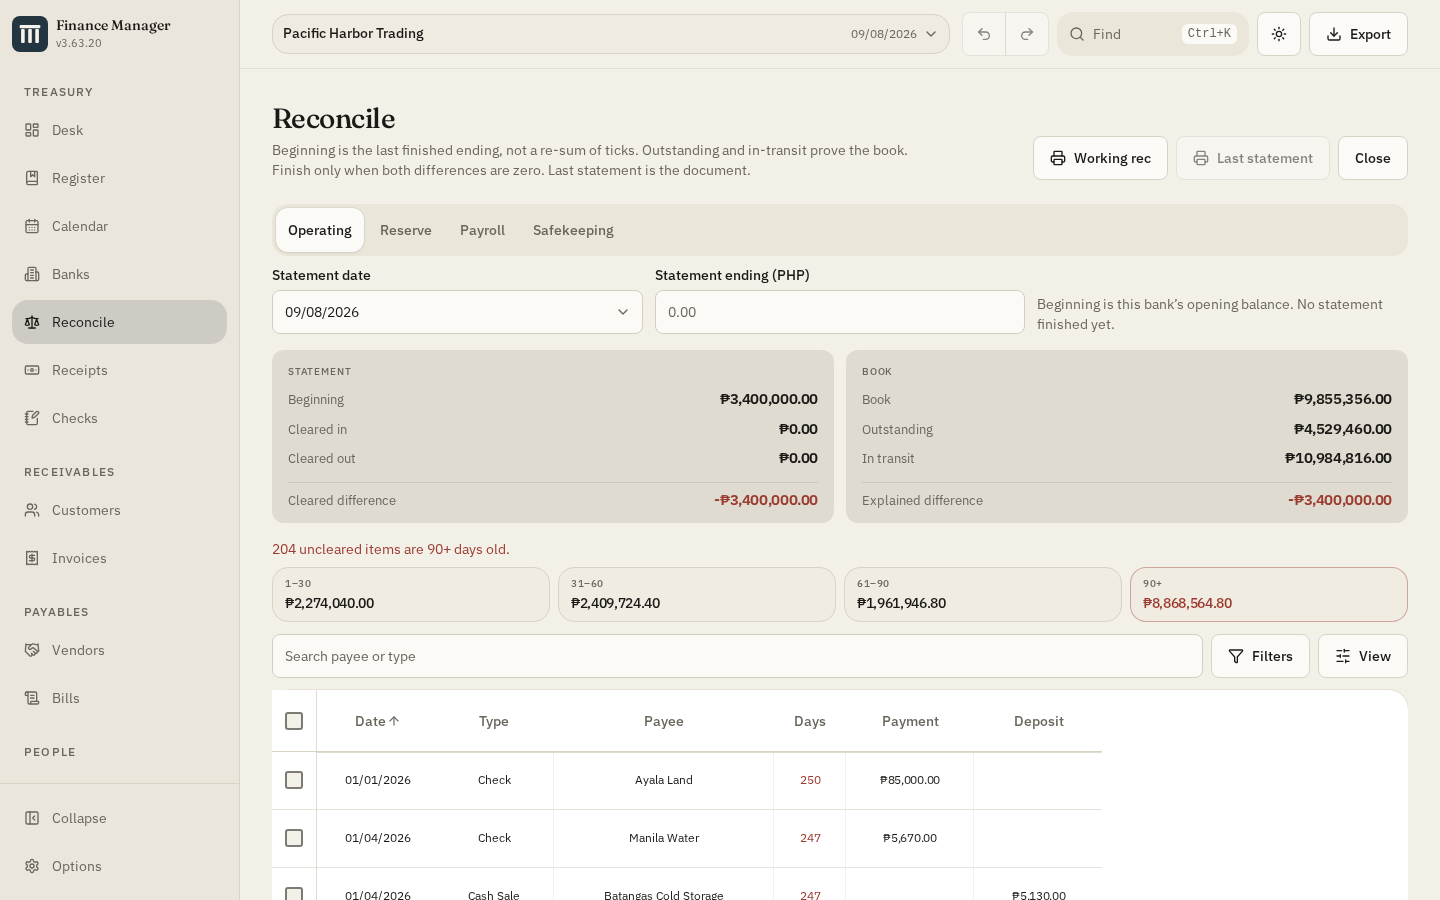
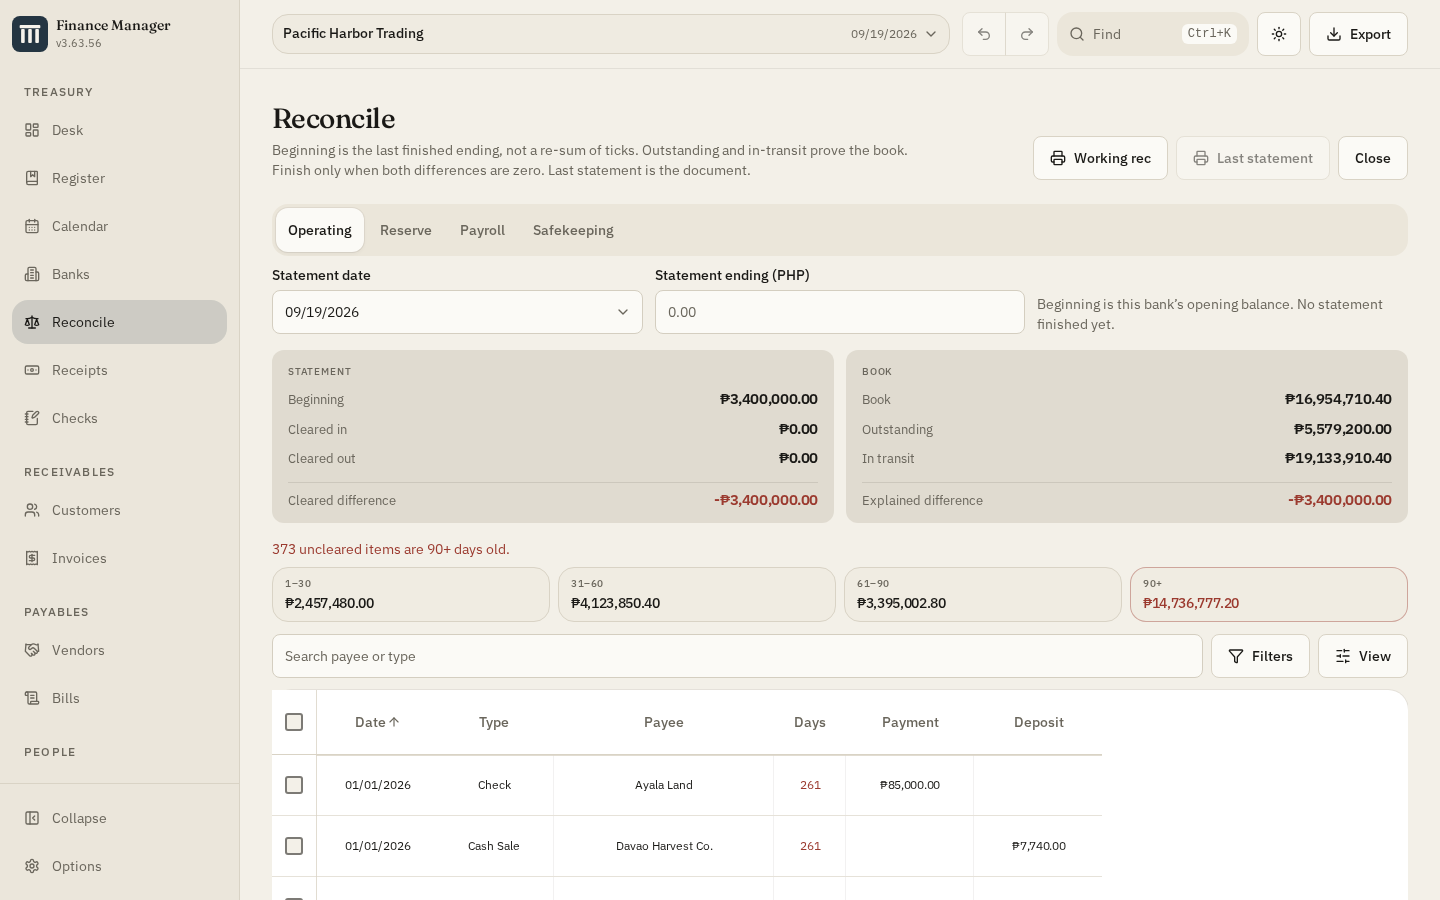
v3.63.56: finalize gallery, trim README, drop dead density store

diff --git a/src/lib/list-density.ts b/src/lib/list-density.ts
@@ -1,67 +1,6 @@
-import { useSyncExternalStore } from "react";
-
 const KEY = "finance-manager-list-density";
 const ATTR = "data-list-density";
-
-export type ListDensity = "comfortable" | "compact";
-export const LIST_DENSITY_DEFAULT: ListDensity = "comfortable";
-
-const listeners = new Set<() => void>();
-
-function clearStoredDensity() {
-  if (typeof localStorage === "undefined") return;
-  try {
-    localStorage.removeItem(KEY);
-  } catch {
-    /* private mode */
-  }
-}
-
-export function applyListDensity(value: ListDensity) {
-  if (typeof document === "undefined") return;
-  document.documentElement.setAttribute(ATTR, value);
-}
-
-function writeListDensity() {
-  clearStoredDensity();
-  applyListDensity(LIST_DENSITY_DEFAULT);
-}
-
-let current: ListDensity = LIST_DENSITY_DEFAULT;
-if (typeof window !== "undefined") {
-  current = LIST_DENSITY_DEFAULT;
-  clearStoredDensity();
-  applyListDensity(current);
-}
-
-function emit() {
-  listeners.forEach((fn) => fn());
-}
-
-export function getListDensity(): ListDensity {
-  return current;
-}
-
-/** Options density removed — always Comfortable; ignores Compact leftovers. */
-export function setListDensity(_value?: ListDensity) {
-  current = LIST_DENSITY_DEFAULT;
-  writeListDensity();
-  emit();
-}
-
-export function subscribeListDensity(fn: () => void) {
-  listeners.add(fn);
-  return () => listeners.delete(fn);
-}
-
-export function useListDensity() {
-  const density = useSyncExternalStore(subscribeListDensity, getListDensity, () => LIST_DENSITY_DEFAULT);
-  return {
-    density,
-    setDensity: setListDensity,
-    isCompact: density === "compact",
-  };
-}
+const LIST_DENSITY_DEFAULT = "comfortable";
 
 /** Apply Comfortable before paint and drop a leftover Compact localStorage key. */
 export const LIST_DENSITY_BOOT = `(function(){try{var k=${JSON.stringify(KEY)};try{localStorage.removeItem(k);}catch(e){}document.documentElement.setAttribute(${JSON.stringify(ATTR)},${JSON.stringify(LIST_DENSITY_DEFAULT)});}catch(e){}})();`;

diff --git a/src/lib/version.ts b/src/lib/version.ts
@@ -1,2 +1,2 @@
-export const APP_VERSION = "3.63.55";
+export const APP_VERSION = "3.63.56";
 export const APP_VERSION_LABEL = `v${APP_VERSION}`;

diff --git a/README.md b/README.md
@@ -1,4 +1,4 @@
-# Finance Manager v3.63.55
+# Finance Manager v3.63.56
 
 Treasury books in a **desktop window**, and in the browser. Banks, receipts, checks, invoices, bills, **employees**, and a **bank register**.
 
@@ -27,6 +27,10 @@ Vite is installed with the packages — no global `vite` command. `.npmrc` has `
 
 After the Windows installer: Desktop has one **Finance Manager** shortcut (navy pillars). Pin that — do not keep leftover `finance-manager` aliases from older builds.
 
+## What's new in v3.63.56
+
+- **Finalize pass:** Recaptured README gallery against the mid-size Pacific Harbor sample. README changelog is this release plus the two before it — older notes stay in [docs/BUGS-AND-IMPROVEMENTS.md](docs/BUGS-AND-IMPROVEMENTS.md). Dead Options-density React store dropped; Comfortable boot script remains.
+
 ## What's new in v3.63.55
 
 - **Compact remnant trim:** Options density stays gone. Force-Comfortable boot remains (clears old Compact localStorage). Unreachable Compact CSS token overrides and dead `isCompact` virt paths removed — spacing is Comfortable-only.
@@ -36,121 +40,6 @@ After the Windows installer: Desktop has one **Finance Manager** shortcut (navy 
 
 - **Honest backup verbs:** Options → Backup is Save (export JSON), Open (replace this company), Merge (add missing records by id), Restore last local copy (this browser’s snapshot). “Bring in from another device” is gone — that label sounded like Save.
 - **Bigger Pacific Harbor sample:** ~40 customers, ~30 vendors, 14 employees (salary + hourly, one inactive), ~1,700 documents. Reload sample in Options to pick it up in an existing browser.
-
-## What's new in v3.63.53
-
-- **Backup folder polish:** Clear forgets the chosen folder (handle + name). Save confirms before replacing same-day JSON already in that folder. Backup actions / hidden file inputs / local-copy stamp are separate rows (no flex junk drawer).
-
-## What's new in v3.63.52
-
-- **Backup Save fallback toast:** Folder-write fallbacks (`Couldn't write… save picker` / `…downloaded`) now use `toast.message` (informational), not `toast.success`. True folder/picker/download successes stay on `toast.success`.
-
-## What's new in v3.63.51
-
-- **Grid Gestalt inset:** Comfortable `--list-grid-inset` 0.4→0.85rem (inset ≥ `--list-card-gap` so card groups clear chrome). Compact inset 0.25→0.5. Desk Reconcile Grid ul shares the token; party Grid pane uses the token and drops double virt margin. Fixed Vite-broken `px-*/py-*` CSS comment. Trimmed unused density parse/read exports and deprecated `CARD_VIRT_GAP`.
-
-## What's new in v3.63.50
-
-- **Backup Save fallback toast:** When a Backup folder is set but the folder write fails, Save no longer toasts a plain saved/downloaded success. It reports the fallback (`Couldn't write to Backup folder — used the save picker instead` / `…downloaded instead`). Choose folder / Save still prefer the folder when it works.
-
-## What's new in v3.63.49
-
-- **Options cleanup:** Keep books on this computer and List density are gone from Options. Storage still shows the usage meter. List/Grid spacing is locked to Comfortable (a leftover Compact localStorage key is cleared on boot).
-- **Backup folder:** Options → Backup shows the current folder (or Not set). On Chromium/desktop, **Choose backup folder** remembers a local folder via File System Access; **Save company file** writes JSON there when that folder is live, otherwise the existing save picker / download. Open / Merge / Restore last local copy unchanged. Phones without a directory picker hide Choose folder and keep Save as download.
-
-## What's new in v3.63.48
-
-- **Register/Reconcile Grid virt gap:** Drop CSS `gap` on virt Grid uls so spacing comes only from `cardVirtGapPx` (CSS gap + virt gap was double-counting, worse mid-scroll with padTop). Keep `--list-grid-inset` padding and non-virt `.item-cards` / `.party-dir-cards` CSS gap. O1–O3 density tokens unchanged.
-
-## What's new in v3.63.47
-
-- **Grid Gestalt O1–O3 + packer maxBuffer:** One `data-list-density` drives list/card pad, inter-card gap, and grid outer inset. Comfortable `--list-cell-py: 0.75rem` / `--list-card-gap: 0.65rem` / `--list-grid-inset: 0.4rem`; Compact keeps tighter py `0.4` / gap `0.5` / inset `0.25`. Register, Reconcile, and CardGrid virt gaps share `cardVirtGapPx` (no magic 8 vs 10). Android pack helpers use `maxBuffer: 64MB` for cargo metadata.
-
-## What's new in v3.63.46
-
-- **Shared card virtualizer estimates:** Register, Reconcile, and CardGrid use one `cardEstimateSize` / token py math (`cardDensityPadDeltaPx` ≈ 8px Compact shrink) — no more divergent magic −20 vs −12. List-row matrix shared via `listRowEstimateSize`. Options title is **List & Grid density**.
-
-## What's new in v3.63.45
-
-- **List density for Grid cards + virtualizer:** Options Compact/Comfortable now drive Grid card padding (`--list-cell-px` / `--list-cell-py`) as well as List rows; Register/Reconcile estimates and remeasure follow density (and type size on Register). Options copy says List + Grid.
-
-## What's new in v3.63.44
-
-- **Forecast budget Grid open + dialog polish:** Grid title click opens Edit (Employees pattern; RowActions still `stopOpen`); zero-amount Edit field stays empty like Add; dialog titles are "Budget item" / "Edit budget item" (no stale stored name). Docs match List vs Grid open behavior.
-
-## What's new in v3.63.43
-
-- **Forecast → Monthly budget polish:** Edit (shared Add dialog) on List and Grid (`RowActions`); List Enter/dblclick opens Edit; ConfirmDelete before Remove; search + kind filter persist in localStorage; form clears after Save; Actions column counted explicitly in table width (no undefined-vis quirk).
-
-## What's new in v3.63.42
-
-- **Forecast → Monthly budget:** List | Grid (same View menu as Employees), column show/hide + resize/align, search, and kind filter (All/Out/In) on both layouts. Phone Grid cards avoid horizontal Amount clip; Amount defaults right (align key `-v2`).
-
-## What's new in v3.63.41
-
-- **Single-instance desktop:** opening Finance Manager again focuses, unminimizes, and shows the existing window. Android is unchanged.
-- **Tidy NSIS Desktop shortcut:** installer writes one **Finance Manager** shortcut (product name + exe icon) and removes leftover `finance-manager` / `FinanceManager` aliases.
-
-## What's new in v3.63.40
-
-- **Country pack Apply is exclusive:** applying US (or SG/AU/UK/…) turns that pack’s modules on and turns other region packs off (PH payroll/13th/BIR included). VAT/GST packs intentionally enable generic VAT; US sales-tax packs do not. Multi-currency is unchanged.
-- **Close checklist Detail** defaults left again — align storage key bumped to `…-col-aligns-v2` so old center prefs do not stick; Status stays center.
-- Print on Reports → Payroll only when PH payroll is on; VAT panel BIR/VAT disclaimers only when those modules are on.
-
-## What's new in v3.63.39
-
-- **More regional stubs** (Settings toggles, default off unless the currency / VAT hint matches): US FIT+FICA W-2 style estimate, Singapore CPF, generic VAT/GST workbook, Australia PAYG/BAS summary, UK PAYE+NI, and multi-currency FX rates + convert CSV. Country packs can turn on related toggles. Practical books/accountant worksheets — **not** IRS / CPF Board / ATO / HMRC / VAT e-file.
-- Toggling a module off hides Reports / Export UI and does not delete posted paychecks, rates, or accounts.
-
-## What's new in v3.63.38
-
-- **Regional modules:** Settings → Tax & payroll modules toggles for Philippines payroll (SSS / PhilHealth / Pag-IBIG / TRAIN), 13th-month estimate & export, and BIR-style CSVs (1601-C / WHT / VAT summary). Defaults on for PHP / Pacific Harbor sample; off otherwise. Toggling off hides UI — does not delete data.
-- **Global appeal:** Non-PH companies keep generic salary/hourly pay without PH withholdings UI or remittance exports until modules are turned on.
-
-## What's new in v3.63.37
-
-- **IDB growth:** Audit capped (newest 800 / ~180 KB); purge closed years also drops finished recon statements through that date; persist + local backup skip identical JSON (fingerprint).
-- **Code-split:** Vite `manualChunks` for `finance` + vendor (react / tanstack / ui / utils) on web and Tauri — smaller Android cold-start chunks without changing desktop behavior.
-- **PH books helpers (not eFiling):** Reports → Payroll shows 13th-month estimate (posted gross ÷ 12, else months × rate ÷ 12) and 1601-C style WHT summary; CSV exports for 1601-C detail, monthly WHT, 13th month, and VAT summary. Clearly labeled for accountant / books only.
-
-## What'''s new in v3.63.25
-
-- **Journal Debit/Credit phone floor:** widen to ~7.5–8.5rem so ₱1,000,000.00 no longer overflows onto Account.
-
-## What'''s new in v3.63.24
-
-- **Journal sheet hug:** `height: fit-content` / `align-content: start` only on sheets that contain the journal line grid — tall Post / Receive / Employee sheets keep their scrollable max-height behavior.
-
-## What's new in v3.63.23
-
-- **Close:** View menu List|Grid — checklist table or stacked cards; All / Blocked / Clear and Post due stay.
-- **Customers / Vendors history:** Grid cards via DocCards (List table kept); View layout toggle.
-- **Journal detail sheet:** Account / Debit / Credit fit the phone sheet (no mid-amount clip); sheet hugs content height.
-
-## What's new in v3.63.22
-
-- **P&L Grid:** cards are plain `CardGrid` tiles (no dead click / noop `onOpen`).
-- **Employees Grid:** Pay / Edit / Delete on cards, same as the List row actions.
-- **Employees Pay column:** money defaults right; align prefs key bumped to v3 so Name-left and other saved aligns stay.
-- **Aging Grid:** Total row under the cards (parity with List).
-- **Trial balance Grid:** Debit and Credit both shown — no one-sided amount.
-- **TB / P&L Grid keyboard:** deferred (List already has focus/Enter; Grid has nothing to open).
-
-## What's new in v3.63.21
-
-- **Reports:** Aging, Trial balance, and P&L get List|Grid like Invoices — cards show party/No./due/age/amount or account + amounts. Auto-fit columns when List is on. VAT and Payroll stay compact tables.
-- **Employees:** Pay/Edit/Delete no longer open the edit sheet; Grid cards show the bank nickname; summary is 2+1 on a phone; Name defaults left; rows hint double-tap to open.
-
-## What's new in v3.63.20
-
-- **Status sits in the middle** of its column on Checks, Invoices, and the other lists. Pending / Open were hugging the left edge.
-- **Row actions on a phone:** Print, Void, and Delete stay on the row when the Actions column has room. ⋯ only appears when the cell is actually tight.
-- **Employees:** Active/Inactive is a badge on the card. Status / pay-type pills wrap with View instead of sliding Hourly off the screen. The page blurb is no longer cut to two lines.
-
-## What's new in v3.63.19
-
-- **Receive payment (and every other sheet):** bank/customer typeahead and the date calendar stay inside the screen — they were sliding past the sheet when the keyboard was open. Method buttons wrap (three then two on a phone) instead of clipping Card. The sheet sits at the top on a phone so the keyboard does not cover Date and Deposit to.
-- **Register phone cards:** Pending and the bank (Operating) are the same height.
 
 Older point-release notes live in [docs/BUGS-AND-IMPROVEMENTS.md](docs/BUGS-AND-IMPROVEMENTS.md).
 

diff --git a/docs/BUGS-AND-IMPROVEMENTS.md b/docs/BUGS-AND-IMPROVEMENTS.md
@@ -1,6 +1,16 @@
 # Finance Manager — bugs & improvements (v3.63)
 
-Re-verified in code 2026-09-18. Updated for v3.63.55.
+Re-verified in code 2026-09-18. Updated for v3.63.56.
+
+## Fixed in v3.63.56
+
+| # | Severity | Issue | Fix |
+| --- | --- | --- | --- |
+| D1 | Low | README changelog still listed 19–55 (including `What'''s` typos on 24/25) | Keep 56/55/54 on README; older notes stay here |
+| D2 | Low | Dead Options-density React store (`useListDensity` / `isCompact`) after UI removed | Boot script only — still clears Compact localStorage before paint |
+| G1 | Docs | Gallery still showed the boutique sample | Recaptured desk / register / reports / reconcile / employees / options / phone |
+
+
 
 ## Fixed in v3.63.55
 
